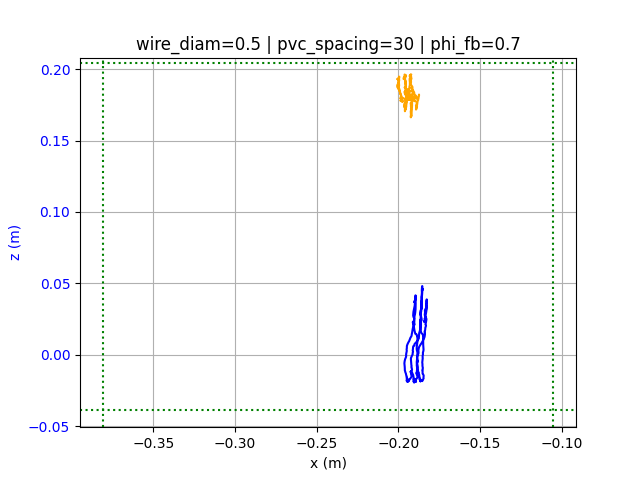
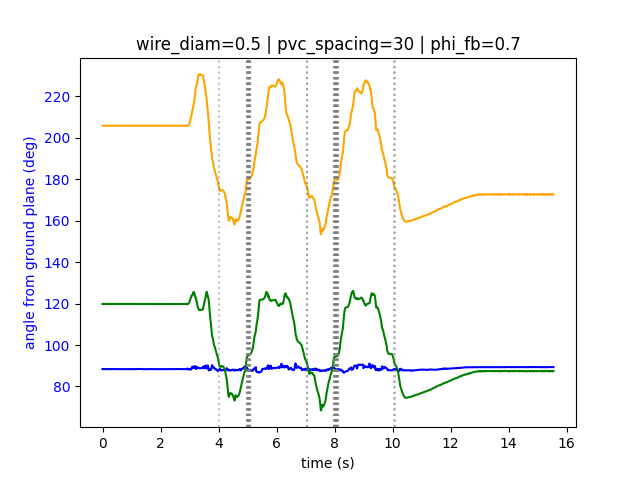
Added the following functions, but still need to sanity check the last one: measured angle offfsets, robot angle when flat, empirical angle offsets (from when robot is supposedly flat), true module angles

diff --git a/data_cleaning/reconstruction.py b/data_cleaning/reconstruction.py
@@ -12,15 +12,22 @@ front_marker2_is_top_cases = [
     [0.8, 20, 0.9], [0.8, 20, 0.1], [0.8, 20, 0.35],
     [0.5, 20, 0.28], [0.5, 20, 0.27], [0.5, 20, 0.12]
 ]
-
 back_marker2_is_top_cases = [
     ["static", 30, "all"]
 ]
 
 top_marker_dist_lims = [105e-3, 150e-3] # m
+mod_vectors_1_0 = {"front": [[1e-2*(5.5-1.675), 1e-2*(-3.5-0.75-0.65), 1e-2*(0.7+0.4+1.4)], 
+                                  [1e-2*(-5.5+1.9), 1e-2*(-3.5-0.75-0.75), 1e-2*(0.7+0.4+0.95)]],
+                    "back": [[1e-2*(-5.5+1.2), 1e-2*(-3.65-0.75-1.85), 1e-2*(-0.9-0.4-3.675)],
+                                  [1e-2*(5.5-5.3), 1e-2*(-3.65-0.75-0.5), 1e-2*(-0.9-0.4-3.77)]]} # sorted left-right, x, y, z
+mod_vectors_static = {"front": [[1e-2*(-1)*(-5.65/2+3.675), 1e-2*(-1.05-2.7-2.5/2), 1e-2*(-1)*(0.9+2.6)], # z= 0.35+0.7
+                                  [1e-2*(-5.65/2+3.675), 1e-2*(-1.05-2.7-2.5/2), 1e-2*(-1)*(0.9+2.6)]],
+                    "back": [[1e-2*(-3.9/2+3.675), 1e-2*(-1.05-2.7-2.5/2), 1e-2*(0.9+2.6)],
+                                  [1e-2*(-1)*(-3.9/2+3.675), 1e-2*(-1.05-2.7-2.5/2), 1e-2*(0.9+2.6)]]}
 
 # Get raw module angles (relative to defined ground plane). Using normal vector of rigid body, relative to each origin axis.
-def get_module_angle(df: pd.DataFrame, module_name: str):
+def get_marker_body_angle(df: pd.DataFrame, module_name: str):
     # Use all three module markers as points to define the plane, find the x, y, and z angles
     # relative to the ground plane, as defined by the normal vector <x, y, z> = <0, 1, 0>
     # and the origin (x, y, z) = (0, 0, 0)
@@ -47,29 +54,7 @@ def get_module_angle(df: pd.DataFrame, module_name: str):
     v1 = p2 - p1
     v2 = p3 - p1
 
-    # Normal vector = v1 × v2 for each time step (cross product along last axis)
-    module_normal = np.cross(v1, v2)  # shape (n_samples, 3)
-
-    # Normalize to unit vectors
-    norm = np.linalg.norm(module_normal, axis=1, keepdims=True)
-    # Avoid division by zero
-    norm[norm == 0] = 1.0
-    module_normal_unit = module_normal / norm
-
-    # Compute angles (in radians, converted to degrees) between module normal and each axis
-    # Angle relative to ground normal (y-axis)
-    dot_y = np.clip(module_normal_unit[:, 1], -1.0, 1.0)
-    y_angle = np.degrees(np.arccos(dot_y))
-
-    # Angle relative to x-axis
-    dot_x = np.clip(module_normal_unit[:, 0], -1.0, 1.0)
-    x_angle = np.degrees(np.arccos(dot_x))
-
-    # Angle relative to z-axis
-    dot_z = np.clip(module_normal_unit[:, 2], -1.0, 1.0)
-    z_angle = np.degrees(np.arccos(dot_z))
-
-    return x_angle, y_angle, z_angle
+    return get_measured_angle_offsets(v1, v2)
 
 # Plot module angles
 def plot_angles(df: pd.DataFrame, x_angle, y_angle, z_angle):
@@ -167,13 +152,161 @@ def get_robot_flat_times(df: pd.DataFrame, dist):
     
     return flat_times
 
+# Get measured plane angle offset from ground plane (only for static and 1.0 tests), defined by top marker point and normal vector
+# basically get measured angle offset from horizontal, which we can readily subtract from raw plane offsets from horizontal
+# v_1 and v_2 are the two vectors w/ tails @ top marker and heads @ bottom markers.
+# They may be passed as either a single 3D vector (shape (3,)) or a batch of vectors (shape (n_samples, 3)).
+def get_measured_angle_offsets(v_1, v_2):
+    v_1 = np.asarray(v_1, dtype=float)
+    v_2 = np.asarray(v_2, dtype=float)
+
+    if v_1.ndim == 1:
+        v_1 = v_1[np.newaxis, :]
+    if v_2.ndim == 1:
+        v_2 = v_2[np.newaxis, :]
+
+    # Normal vector = v1 × v2 for each time step (cross product along last axis)
+    module_normal = np.cross(v_1, v_2)  # shape (n_samples, 3)
+
+    # Normalize to unit vectors
+    norm = np.linalg.norm(module_normal, axis=1, keepdims=True)
+    # Avoid division by zero
+    norm[norm == 0] = 1.0
+    module_normal_unit = module_normal / norm
+
+    # Compute angles (in radians, converted to degrees) between module normal and each axis
+    # Angle relative to ground normal (y-axis)
+    dot_y = np.clip(module_normal_unit[:, 1], -1.0, 1.0)
+    y_angle = np.degrees(np.arccos(dot_y))
+
+    # Angle relative to x-axis
+    dot_x = np.clip(module_normal_unit[:, 0], -1.0, 1.0)
+    x_angle = np.degrees(np.arccos(dot_x))
+
+    # Angle relative to z-axis
+    dot_z = np.clip(module_normal_unit[:, 2], -1.0, 1.0)
+    z_angle = np.degrees(np.arccos(dot_z))
+
+    return x_angle, y_angle, z_angle
+
+# Get the robot angle from when the robot is flat as measured by the top markers, approximately using the two markers on the front module
+# for a rough measure of flatness along the x-axis
+def get_robot_angle_when_flat(df: pd.DataFrame, flat_times):
+    # Define the plane by finding the normal vector to the two vectors, 1) defined by the two top markers, and 
+    # 2) defined by the other two markers on the front module. Use other other functions in the file as much as possible.
+    # Use the first flat_time. Define v_1 as the vector between the two top markers and v_2 as the vector between the other two vectors, and then use get_measured_angle_offsets to output the plane, relative to the ground plane.
+
+    if not flat_times:
+        print("No flat times provided — returning None.")
+        return None
+
+    flat_t = flat_times[0]
+
+    # Get the top marker names
+    top_marker_1, top_marker_2 = get_top_marker_names(df)
+
+    # Extract the front module name
+    front_mod_name = top_marker_1.split(":")[0]
+
+    # Determine which front markers are the top vs. the other two
+    front_top_marker = top_marker_1.split(":")[1]  # e.g. "Marker1" or "Marker2"
+    other_markers = [m for m in ["Marker1", "Marker2", "Marker3"] if m != front_top_marker]
+    front_other_marker_1 = f"{front_mod_name}:{other_markers[0]}"
+    front_other_marker_2 = f"{front_mod_name}:{other_markers[1]}"
+
+    # Get positions at the first flat time
+    def _get_pos(marker):
+        subscript = ".1" if not (marker, "Position", "X") in df.columns else ""
+        return np.array([
+            df.loc[flat_t, (marker, "Position", "X" + subscript)],
+            df.loc[flat_t, (marker, "Position", "Y" + subscript)],
+            df.loc[flat_t, (marker, "Position", "Z" + subscript)],
+        ], dtype=float)
+
+    p_top_1   = _get_pos(top_marker_1)
+    p_top_2   = _get_pos(top_marker_2)
+    p_other_1 = _get_pos(front_other_marker_1)
+    p_other_2 = _get_pos(front_other_marker_2)
+
+    # v_1: vector between the two top markers
+    v_1 = p_top_2 - p_top_1
+
+    # v_2: vector between the other two markers on the front module
+    v_2 = p_other_2 - p_other_1
+
+    # Use get_measured_angle_offsets to compute plane angles
+    x_angle, y_angle, z_angle = get_measured_angle_offsets(v_1, v_2)
+
+    return float(x_angle[0]), float(y_angle[0]), float(z_angle[0])
+
+# Get the empirical angle offsets of both modules from their marker planes
+def get_empirical_angle_offsets(df: pd.DataFrame, flat_times):
+    if not flat_times:
+        return None, None
+
+    flat_angles = get_robot_angle_when_flat(df, flat_times)
+    flat_t = flat_times[0]
+
+    # Resolve the flat timestamp to its position in the aligned angle arrays.
+    try:
+        flat_i = df.index.get_loc(flat_t)
+    except KeyError:
+        flat_i = np.where(df.index == flat_t)[0][0]
+
+    module_angles_front = get_marker_body_angle(df, "FrontMod")
+    module_angles_back = get_marker_body_angle(df, "BackMod" if "BackMod2" not in df.columns else "BackMod2")
+
+    front_angle_offsets = tuple(
+        angle[flat_i] - flat_angle
+        for angle, flat_angle in zip(module_angles_front, flat_angles)
+    )
+    back_angle_offsets = tuple(
+        angle[flat_i] - flat_angle
+        for angle, flat_angle in zip(module_angles_back, flat_angles)
+    )
+
+    return front_angle_offsets, back_angle_offsets
+
+# Get the true angle offsets of both modules from the ground plane
+def get_module_angles(df: pd.DataFrame, angle_offsets):
+    # Subtract angle offsets (which contains two 1x3 dimensional tuples of the front and back module angle offsets 
+    # from the raw front and back module angles -- which each contain nx3 dimensional tuples.
+
+    # Unpack offsets: each is a tuple (x_offset, y_offset, z_offset)
+    front_offset, back_offset = angle_offsets
+    front_ox, front_oy, front_oz = front_offset
+    back_ox,  back_oy,  back_oz  = back_offset
+
+    # Unpack raw angles: each is a tuple (x_angle, y_angle, z_angle) of arrays
+    front_rx, front_ry, front_rz = get_marker_body_angle(df, "FrontMod")
+    back_rx,  back_ry,  back_rz  = get_marker_body_angle(df, "BackMod") if "BackMod2" not in df.columns else get_marker_body_angle(df, "BackMod2") 
+
+    # Subtract offsets element-wise (broadcasting over the time axis)
+    front_x = front_rx - front_ox
+    front_y = front_ry - front_oy
+    front_z = front_rz - front_oz
+
+    back_x = back_rx - back_ox
+    back_y = back_ry - back_oy
+    back_z = back_rz - back_oz
+
+    return (front_x, front_y, front_z), (back_x, back_y, back_z)
+
+# Get 
 if __name__ == "__main__":
     df = limits.csv_to_df(limits.file_name, limits.file_dir)
-    x_angle, y_angle, z_angle = get_module_angle(df, "FrontMod")
+    x_angle, y_angle, z_angle = get_marker_body_angle(df, "FrontMod")
     marker_1, marker_2 = get_top_marker_names(df)
     dist = get_marker_distance(df, marker_1, marker_2)
+    flat_times = get_robot_flat_times(df, dist)
+    true_angles = get_module_angles(df, get_empirical_angle_offsets(df, flat_times))
 
-    ax = plot_angles(df, x_angle, y_angle, z_angle)
+    ax = plot_angles(df, true_angles[0][0], true_angles[0][1], true_angles[0][2]) # frontmod
+    # ax = plot_angles(df, true_angles[1][0], true_angles[1][1], true_angles[1][2]) # backmod
     # ax = plot_marker_distance(df, dist)
-    plot_robot_flat_times(get_robot_flat_times(df, dist), ax)
+    plot_robot_flat_times(flat_times, ax)
+    # print(f"Robot angle at first instance of flatness: {get_robot_angle_when_flat(df, flat_times)}")
+    print(get_empirical_angle_offsets(df, flat_times))
+    # print(get_measured_angle_offsets(mod_vectors_static["front"][0], mod_vectors_static["front"][1]))
+
     limits.show_plot()

diff --git a/data_cleaning/limits.py b/data_cleaning/limits.py
@@ -4,9 +4,9 @@ import numpy as np
 from datetime import datetime
 
 # this is where we specify what trial we want to analyze
-wire_diam = 0.8
-pvc_spacing = 20
-phi_fb = 0.89
+wire_diam = 0.5
+pvc_spacing = 30
+phi_fb = 0.7
 
 file_dir = f'processed_data/{wire_diam}mm_Wire_Spring/'
 file_name = f'{pvc_spacing}mm_{phi_fb}.csv'